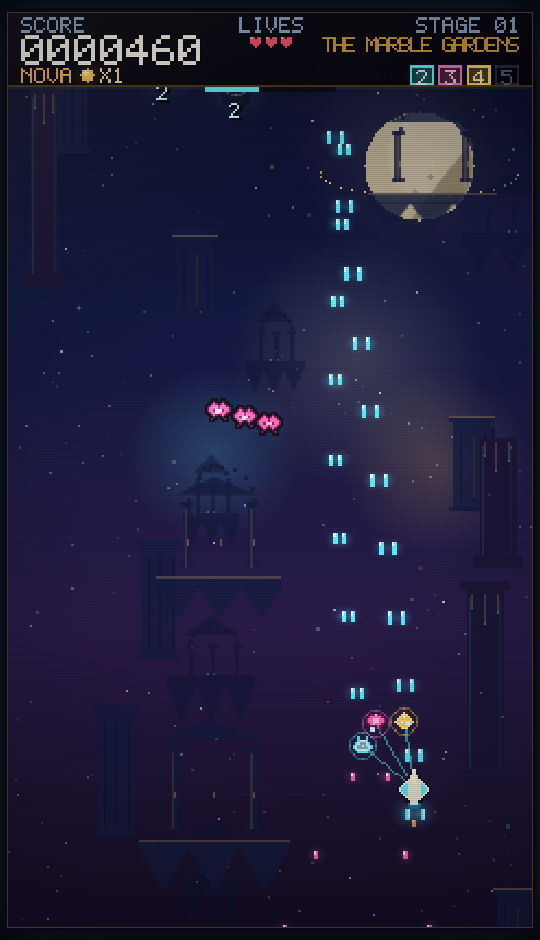
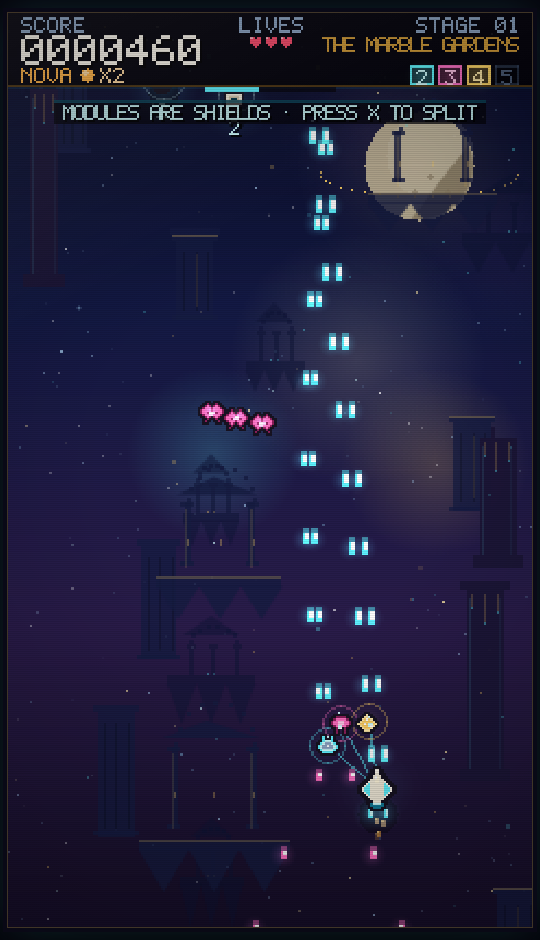
feat(v1.1): readability pass and fairer opening
Art readability:
- player & module sprites get dark outlines, a contact shadow and a hero halo
- brighter player bolts with white cores; enemy bullets get dark outlines
- enemy eye glints are always visible instead of blinking

Fairer opening:
- start with 2 NOVA charges (was 1)
- Phoenix lasts 8.5 s (was 7.5)
- pod clusters scroll faster and appear from wave 1
- a missed pod cluster retries on the next wave instead of the next stage
- shorter first wave for a quicker first module

Onboarding:
- first-run hint line teaches the pod->module loop and the split key
- +2 new logic tests (41 total: retry queue, opening pacing)

diff --git a/src/render/renderer.js b/src/render/renderer.js
@@ -210,6 +210,27 @@ export class Renderer {
     drawBanner(ctx, game);
     drawPopups(ctx, game);
     drawTouchControls(ctx, game, input && input.isTouch);
+
+    // First-run guidance: teach the pod → module loop in the first seconds.
+    if (game.scene === 'playing' && game.stage === 1 && game.tutorialTimer > 0 && !game.player.hasAllModules) {
+      const fadeIn = Math.min(1, (18 - game.tutorialTimer) / 1.2);
+      const fadeOut = Math.min(1, game.tutorialTimer / 1.5);
+      const alpha = Math.max(0, Math.min(1, fadeIn * fadeOut));
+      if (alpha > 0.02) {
+        const msg = game.player.modules.length === 0
+          ? 'SHOOT THE 4 GROUND PODS TO FREE A MODULE'
+          : 'MODULES ARE SHIELDS · PRESS X TO SPLIT';
+        const w = measureText(msg, { scale: 1, spacing: 0 }).w;
+        ctx.globalAlpha = alpha * 0.9;
+        rect(ctx, 120 - w / 2 - 4, 40, w + 8, 11, 'rgba(4,3,10,0.8)');
+        hline(ctx, 120 - w / 2 - 4, 40, w + 8, withAlpha(P.cyanSh, 0.5));
+        drawText(ctx, msg, 120, 42, {
+          align: 'center', scale: 1, spacing: 0, color: P.cyanHi,
+          shadow: { x: 1, y: 1, color: 'rgba(0,0,0,0.8)' },
+        });
+        ctx.globalAlpha = 1;
+      }
+    }
   }
 
   /* ---------------------------------------------------------------- */
@@ -230,6 +251,9 @@ export class Renderer {
     const prevAlpha = ctx.globalAlpha;
     if (blink) ctx.globalAlpha = 0.35;
 
+    // Contact shadow + hero halo for separation from the background.
+    circle(ctx, p.x, p.y + 12, 9, withAlpha(P.black, 0.3));
+    glow(ctx, p.x, p.y, 20, P.cyan, 0.07);
     this.drawPlayerShadow(ctx, p);
     const modules = p.moduleWorldPositions();
 
@@ -267,7 +291,7 @@ export class Renderer {
       const sprite = this.sprites.modules[m.id];
       const bob = p.formationActive ? Math.sin(this.clock * 6 + m.x) * 0.5 : 0;
       glow(ctx, m.x, m.y, 8, def.color, m.flying ? 0.18 : 0.1);
-      drawSprite(ctx, sprite, m.x, m.y + bob);
+      drawSprite(ctx, sprite, m.x, m.y + bob, { outline: P.outline });
       if (p.hitPulse > 0.5) {
         drawSprite(ctx, sprite, m.x, m.y + bob, { flash: true, alpha: p.hitPulse });
       }
@@ -285,7 +309,7 @@ export class Renderer {
     if (Math.random() < 0.35) this.spawnFlame(p.x + (Math.random() - 0.5) * 5, engineY + 4);
 
     // Core craft.
-    drawSprite(ctx, this.sprites.player, p.x, p.y);
+    drawSprite(ctx, this.sprites.player, p.x, p.y, { outline: P.outline });
     // Cockpit shine.
     rect(ctx, p.x - 1, p.y - 5, 2, 3, withAlpha(P.white, 0.6));
     rect(ctx, p.x - 1, p.y - 5, 1, 1, P.white);
@@ -417,14 +441,13 @@ export class Renderer {
       if (e.flash > 0) {
         drawSprite(ctx, sprite, e.x, e.y, { flash: true, alpha: Math.min(1, e.flash) });
       }
-      // Engine / eye glints.
+      // Engine / eye glints (always visible for readability).
       const glint = e.kind === 'striker' || e.kind === 'seraph' ? P.greenHi
         : e.kind === 'lance' ? P.violet
           : e.kind === 'aegis' ? P.cyanHi : P.magentaHi;
-      if (Math.sin(this.clock * 3 + e.uid) > 0.55) {
-        rect(ctx, e.x - 1, e.y - 1, 2, 2, glint);
-        glow(ctx, e.x, e.y - 1, 4, glint, 0.4);
-      }
+      const pulse = 0.55 + 0.45 * Math.sin(this.clock * 4 + e.uid);
+      rect(ctx, e.x - 1, e.y - 1, 2, 2, glint);
+      glow(ctx, e.x, e.y - 1, 4, glint, 0.35 + 0.2 * pulse);
       if (e.kind === 'goliath') {
         rect(ctx, e.x - 6, e.y + 8, 2, 2, withAlpha(P.magenta, 0.6));
         rect(ctx, e.x + 5, e.y + 8, 2, 2, withAlpha(P.magenta, 0.6));
@@ -580,9 +603,10 @@ export class Renderer {
         circle(ctx, b.x, b.y - 1, 1, P.marbleHi);
       } else {
         const h = b.h || 5;
-        glow(ctx, b.x, b.y, 5, color, 0.35);
-        rect(ctx, b.x - 0.5, b.y - h / 2, 2, h, color);
-        rect(ctx, b.x - 0.5, b.y - h / 2, 1, 2, P.white);
+        glow(ctx, b.x, b.y, 6, color, 0.4);
+        rect(ctx, b.x - 1, b.y - h / 2 - 2, 3, h + 2, withAlpha(color, 0.5));
+        rect(ctx, b.x - 1, b.y - h / 2, 3, h, color);
+        rect(ctx, b.x - 0.5, b.y - h / 2, 1.5, Math.max(2, h - 2), P.white);
       }
     }
   }
@@ -591,7 +615,8 @@ export class Renderer {
     for (const b of game.enemyBullets) {
       const color = COLORS[b.color] || P.magenta;
       const r = b.r || 2;
-      glow(ctx, b.x, b.y, r * 4, color, 0.35);
+      glow(ctx, b.x, b.y, r * 4, color, 0.4);
+      circle(ctx, b.x, b.y, r + 1, withAlpha(P.outline, 0.9));
       circle(ctx, b.x, b.y, r, color);
       circle(ctx, b.x - 0.5, b.y - 0.5, Math.max(0.6, r - 1), P.white);
     }

diff --git a/src/game/game.js b/src/game/game.js
@@ -98,6 +98,8 @@ export class Game {
     this.pendingSpawns = [];
     this.scaling = { hpMul: 1, bulletSpeed: 1, density: 1, fireRate: 1 };
     this.lastNova = 0;
+    this.podRetry = false;
+    this.tutorialTimer = 0;
 
     this.applyVolumes();
     this.hooks.music('title');
@@ -286,6 +288,8 @@ export class Game {
     this.phoenixesThisRun = 0;
     this.continueUsed = false;
     this.continuedThisRun = false;
+    this.podRetry = false;
+    this.tutorialTimer = 18;
     this.player = new Player(this);
     this.player.reset();
     this.enemies = [];
@@ -326,6 +330,7 @@ export class Game {
     this.podCluster = null;
     this.boss = null;
     this.pickups.length = 0;
+    this.podRetry = false;
     if (this.player && !this.player.dead) {
       this.player.x = PLAYER.spawnX;
       this.player.y = PLAYER.spawnY;
@@ -340,7 +345,11 @@ export class Game {
     const wave = this.stagePlan.waves[index];
     if (!wave) return;
     this.pendingSpawns = wave.spawns.map((s) => ({ ...s, spawned: false }));
-    if (wave.pods) this.spawnPodCluster();
+    // Pods: scheduled clusters, plus a retry next wave if a cluster was missed.
+    if (wave.pods || (this.podRetry && this.player.modules.length < 4)) {
+      this.spawnPodCluster();
+      this.podRetry = false;
+    }
     this.stageState = 'waves';
   }
 
@@ -350,6 +359,7 @@ export class Game {
 
   updatePlaying(dt, input) {
     this.runTime += dt;
+    if (this.tutorialTimer > 0) this.tutorialTimer = Math.max(0, this.tutorialTimer - dt);
 
     if (input.pause) {
       this.goToScene('paused', null);
@@ -527,6 +537,9 @@ export class Game {
       if (cluster.destroyed === cluster.pods.length && !cluster.awarded) {
         cluster.awarded = true;
         this.awardPodCluster(cluster);
+      } else if (cluster.missed > 0 && this.player.modules.length < 4) {
+        // A missed cluster comes back next wave instead of waiting a whole stage.
+        this.podRetry = true;
       }
       this.podCluster = null;
     }

diff --git a/src/game/config.js b/src/game/config.js
@@ -44,7 +44,7 @@ export const PLAYER = {
   formationCooldown: 2.8,
   formationFireBoost: 1.45,
   formationRadius: 28,
-  phoenixDuration: 7.5,
+  phoenixDuration: 8.5,
   phoenixCooldown: 2.5,
   phoenixContactR: 14,
   phoenixSpeedMul: 1.12,
@@ -204,13 +204,13 @@ export const PODS = {
   hp: 2,
   r: 7,
   spacing: 33,
-  scrollSpeed: 24,
+  scrollSpeed: 28,
   spawnY: -16,
   score: 80,
   clusterBonus: 60,
   pickupValue: 750,
   pickupR: 7,
-  pickupSpeed: 130,
+  pickupSpeed: 150,
   pickupHoming: 1.9,
   relicScore: 900,
 };
@@ -287,7 +287,7 @@ export const SCORING = {
 export const GAME = {
   startingLives: 3,
   maxLives: 5,
-  startingNovas: 1,
+  startingNovas: 2,
   maxNovas: 3,
   continueWindow: 9,
   continueLives: 2,

diff --git a/src/game/waves.js b/src/game/waves.js
@@ -15,7 +15,7 @@ import {
 const WAVE_BLUEPRINTS = [
   {
     tag: 'PATROL',
-    budget: 3,
+    budget: 2,
     pool: ['striker', 'wraith', 'vesper'],
     formations: ['line', 'v', 'snake'],
     heavyChance: 0.05,

diff --git a/README.md b/README.md
@@ -9,6 +9,12 @@
 **<https://ly.id.ly/Cyber-Michelangelo/>** — deployed straight from this repository (GitHub Pages mirror).
 A Cloudflare Pages deployment with a custom domain is planned next.
 
+### What's new in v1.1
+
+- **Readability pass:** dark-outlined sprites, brighter weapon cores, stronger enemy eyes and a light halo behind the player craft.
+- **Fairer opening:** first pod cluster on wave 1, missed clusters retry next wave, **2 starting NOVA charges**, longer **8.5 s Phoenix**, calmer first wave.
+- **First-run tutorial:** a short hint line teaches the pod → module loop during the first seconds of stage 1.
+
 ![Title screen](screenshots/title.png)
 
 ---
@@ -63,9 +69,9 @@ Menus: `↑ ↓` + `Enter`; `Esc` = back. Auto-fire can also be enabled for keyb
 A twin-laser craft with a forgiving 4-pixel core hitbox and a banked, weighty feel.
 
 ### 2. Shoot the pods, earn the modules
-Ground relics scroll into view in clusters of four. **Destroy every pod in a cluster** to release the module capsule it guards — the cluster carries the number of the piece you still need (`2`, `3`, `4`, `5`). Let the pods scroll past and the cluster is lost: it will appear again later.
+Ground relics scroll into view in clusters of four. **Destroy every pod in a cluster** to release the module capsule it guards — the cluster carries the number of the piece you still need (`2`, `3`, `4`, `5`). Let the pods scroll past and the **cluster retries on the very next wave**, so a missed cluster never costs a whole stage.
 
-> أطلق النار على الصوامع الأرضية الأربعة في كل مجموعة لتُحرّر كبسولة الوحدة المرقّمة، ثم التقطها لتلتحم بسفينتك.
+> أطلق النار على الصوامع الأرضية الأربعة في كل مجموعة لتُحرّر كبسولة الوحدة المرقّمة، ثم التقطها لتلتحم بسفينتك — وإذا فوّت مجموعة فستعود في الموجة التالية.
 
 The four modules, each with its own role:
 
@@ -88,10 +94,10 @@ With **1–3 pieces docked**, press `X` to make the pieces split into a tactical
 While split, the pieces are **invulnerable and fire faster**, but the main hull is **not**. A hit on the hull reverts you to a singular craft and all pieces are lost — risk / reward. The formation auto-rejoins after 3.4 s, then needs a short cooldown.
 
 ### 4. Phoenix transformation
-Collect **all four pieces**, then press `X`. The craft becomes the **invincible flaming Phoenix** for 7.5 s: it flies faster, clears bullets, destroys enemies by contact, pours out a triple flame stream and doubles score gains. When the fire dies down, the four pieces **burn out** — rebuild by hunting new pod clusters.
+Collect **all four pieces**, then press `X`. The craft becomes the **invincible flaming Phoenix** for 8.5 s: it flies faster, clears bullets, destroys enemies by contact, pours out a triple flame stream and doubles score gains. When the fire dies down, the four pieces **burn out** — rebuild by hunting new pod clusters.
 
 ### 5. Nova bomb
-Start each run with one **NOVA** charge (max 3). Press `B` to erase every enemy bullet on screen, invincibly flash, and deal heavy damage to everything nearby. Charges drop from Goliath gunships, bosses and score milestones.
+Start each run with **two** NOVA charges (max 3). Press `B` to erase every enemy bullet on screen, invincibly flash, and deal heavy damage to everything nearby. Charges drop from Goliath gunships, bosses and score milestones.
 
 ### 6. Endless looped stages
 Five procedural waves per stage, then a boss. Three hand-built environments cycle endlessly:

diff --git a/docs/GAME_DESIGN.md b/docs/GAME_DESIGN.md
@@ -7,7 +7,7 @@
 **Simulation:** fixed 1/60 s timestep, DOM-free `Game` state machine
 **Reference:** *Terra Cresta* (Nichibutsu, 1985) — modular docking, formation split, flaming Phoenix
 **Art direction:** “digital Renaissance in deep space” — marble, gold leaf, neon circuitry, pixel art
-**Version:** 1.0.0
+**Version:** 1.1.0
 
 ---
 
@@ -114,7 +114,7 @@ Rules:
 
 When **all four pieces are docked**, pressing Transform ignites the **Phoenix**:
 
-- Duration **7.5 s**, full invulnerability.
+- Duration **8.5 s**, full invulnerability.
 - Contact with enemies instantly destroys them; all enemy bullets are erased on ignition.
 - Fires a triple **flame stream** (2 dmg, 4 pierces, every 0.095 s).
 - Doubles score gained from kills; grants a one-off +2 500 activation bonus.
@@ -128,7 +128,7 @@ This gives the Phoenix a real cost and keeps the assembly loop interesting acros
 
 | Stat | Value |
 | --- | --- |
-| Start charges | 1 (max 3) |
+| Start charges | 2 (max 3) |
 | Effect | Clear all enemy bullets; 60 dmg to boss; 30 + 2×stage dmg to all enemies in 140 px; 1.3 s invulnerability; screen flash + shake |
 | Sources | Start of run, bosses (+1), score milestones, Goliath drops (22 %), pickup drops |
 | UI | `NOVA ✦ ×N` in the HUD |
@@ -177,7 +177,8 @@ On death: 3.2 s explosion sequence, screen flash, +stage clear bonus, one Nova a
 - Each stage: **5 procedural waves** + boss. Themes cycle: **THE MARBLE GARDENS → THE NEON CATACOMBS → THE GRID CATHEDRAL → repeat**.
 - Waves are generated deterministically from `hashSeed(runSeed, stage, 'waves')` (`src/game/waves.js`), so a given seed + stage always produces the same encounter.
 - Wave templates: `PATROL`, `STRIKE`, `BARRAGE`, `ELITE`, `ONSLAUGHT` with formation patterns `line`, `v`, `snake`, `column`, `pair`.
-- Pod clusters are scheduled on waves 2 and 4; if all modules are owned, a cleared cluster pays a relic bonus (+900 and a gold gem).
+- Pod clusters are scheduled on waves 1, 2 and 4; a **missed cluster is retried on the following wave** instead of costing a whole stage. If all modules are owned, a cleared cluster pays a relic bonus (+900 and a gold gem).
+- New players get a **first-run tutorial line** for the first 18 s of stage 1 explaining the pod → module loop (and later the split key).
 - Wave clear bonus = 300 + 50 × stage. Stage clear = 2 500 × stage.
 - **Loop scaling** (`DIFFICULTY`):
   - `enemyHp = min(7, 1 + 0.16·(stage−1) + 0.40·(loop−1))`
